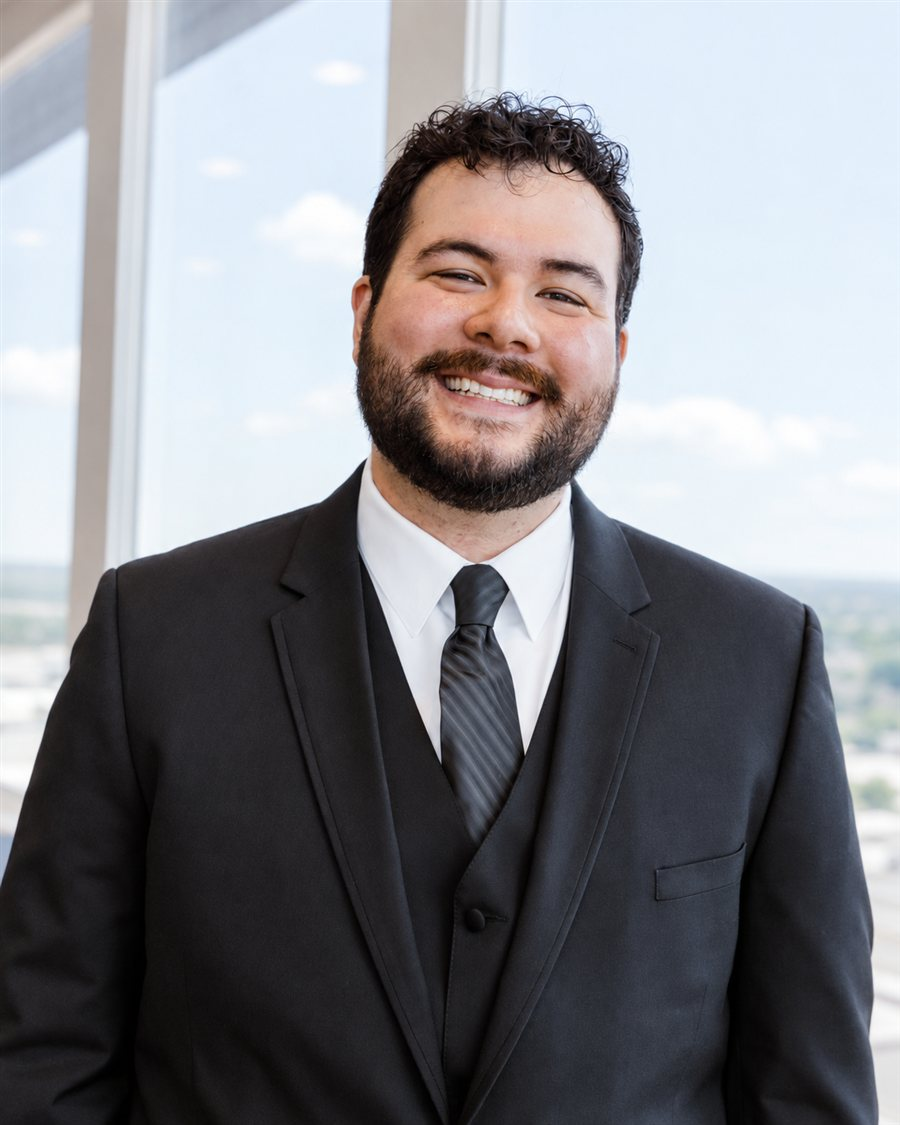
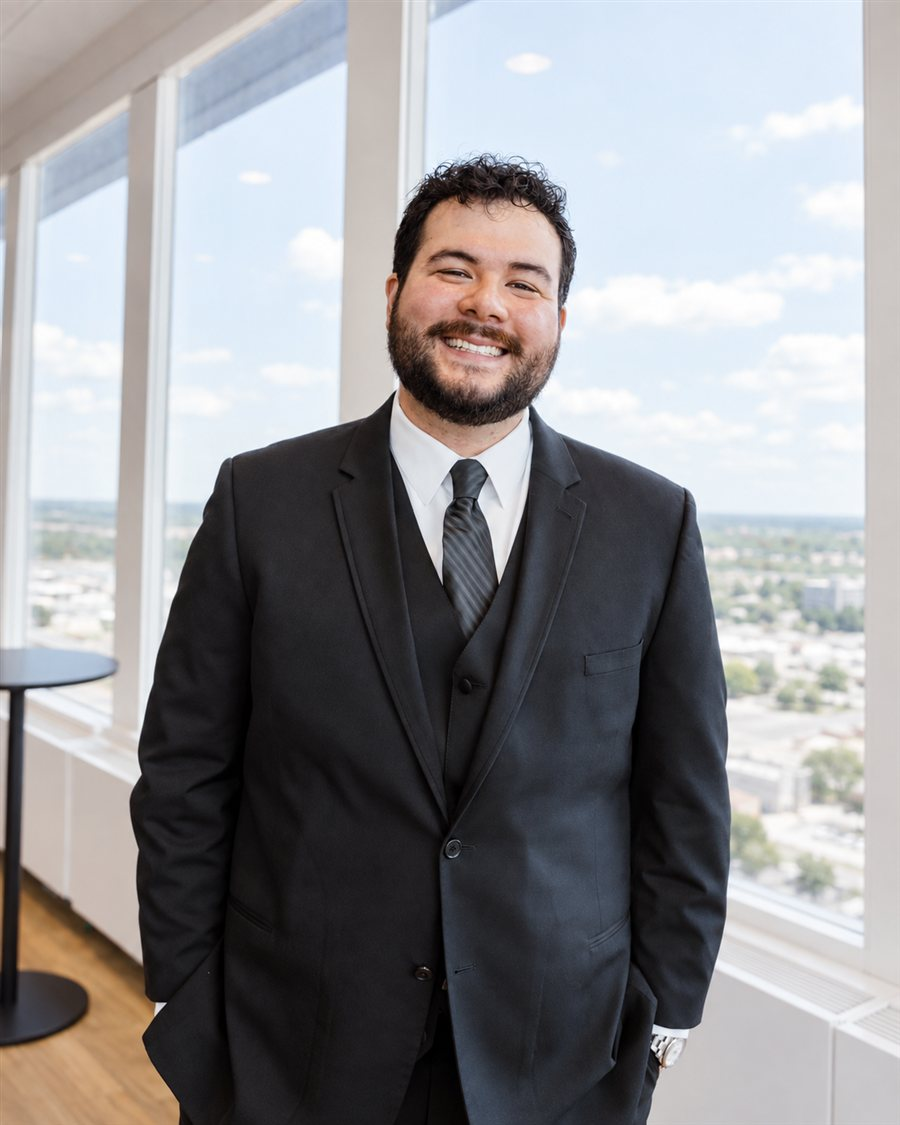
Swap in updated headshot photo, cache-bust the reference
Claude-Session: https://claude.ai/code/session_01MRr7vu1LuSBriFJaiPkj8K

diff --git a/site/about/index.html b/site/about/index.html
@@ -84,7 +84,7 @@
         </div>
         <div class="lee-mask" style="animation-delay:300ms">
           <div class="lee-photo has-image" style="aspect-ratio:16/13">
-            <img src="/images/about-engsean.jpg" alt="EngSean Lee" loading="lazy">
+            <img src="/images/about-engsean.jpg?v=2" alt="EngSean Lee" loading="lazy">
           </div>
         </div>
       </div>
